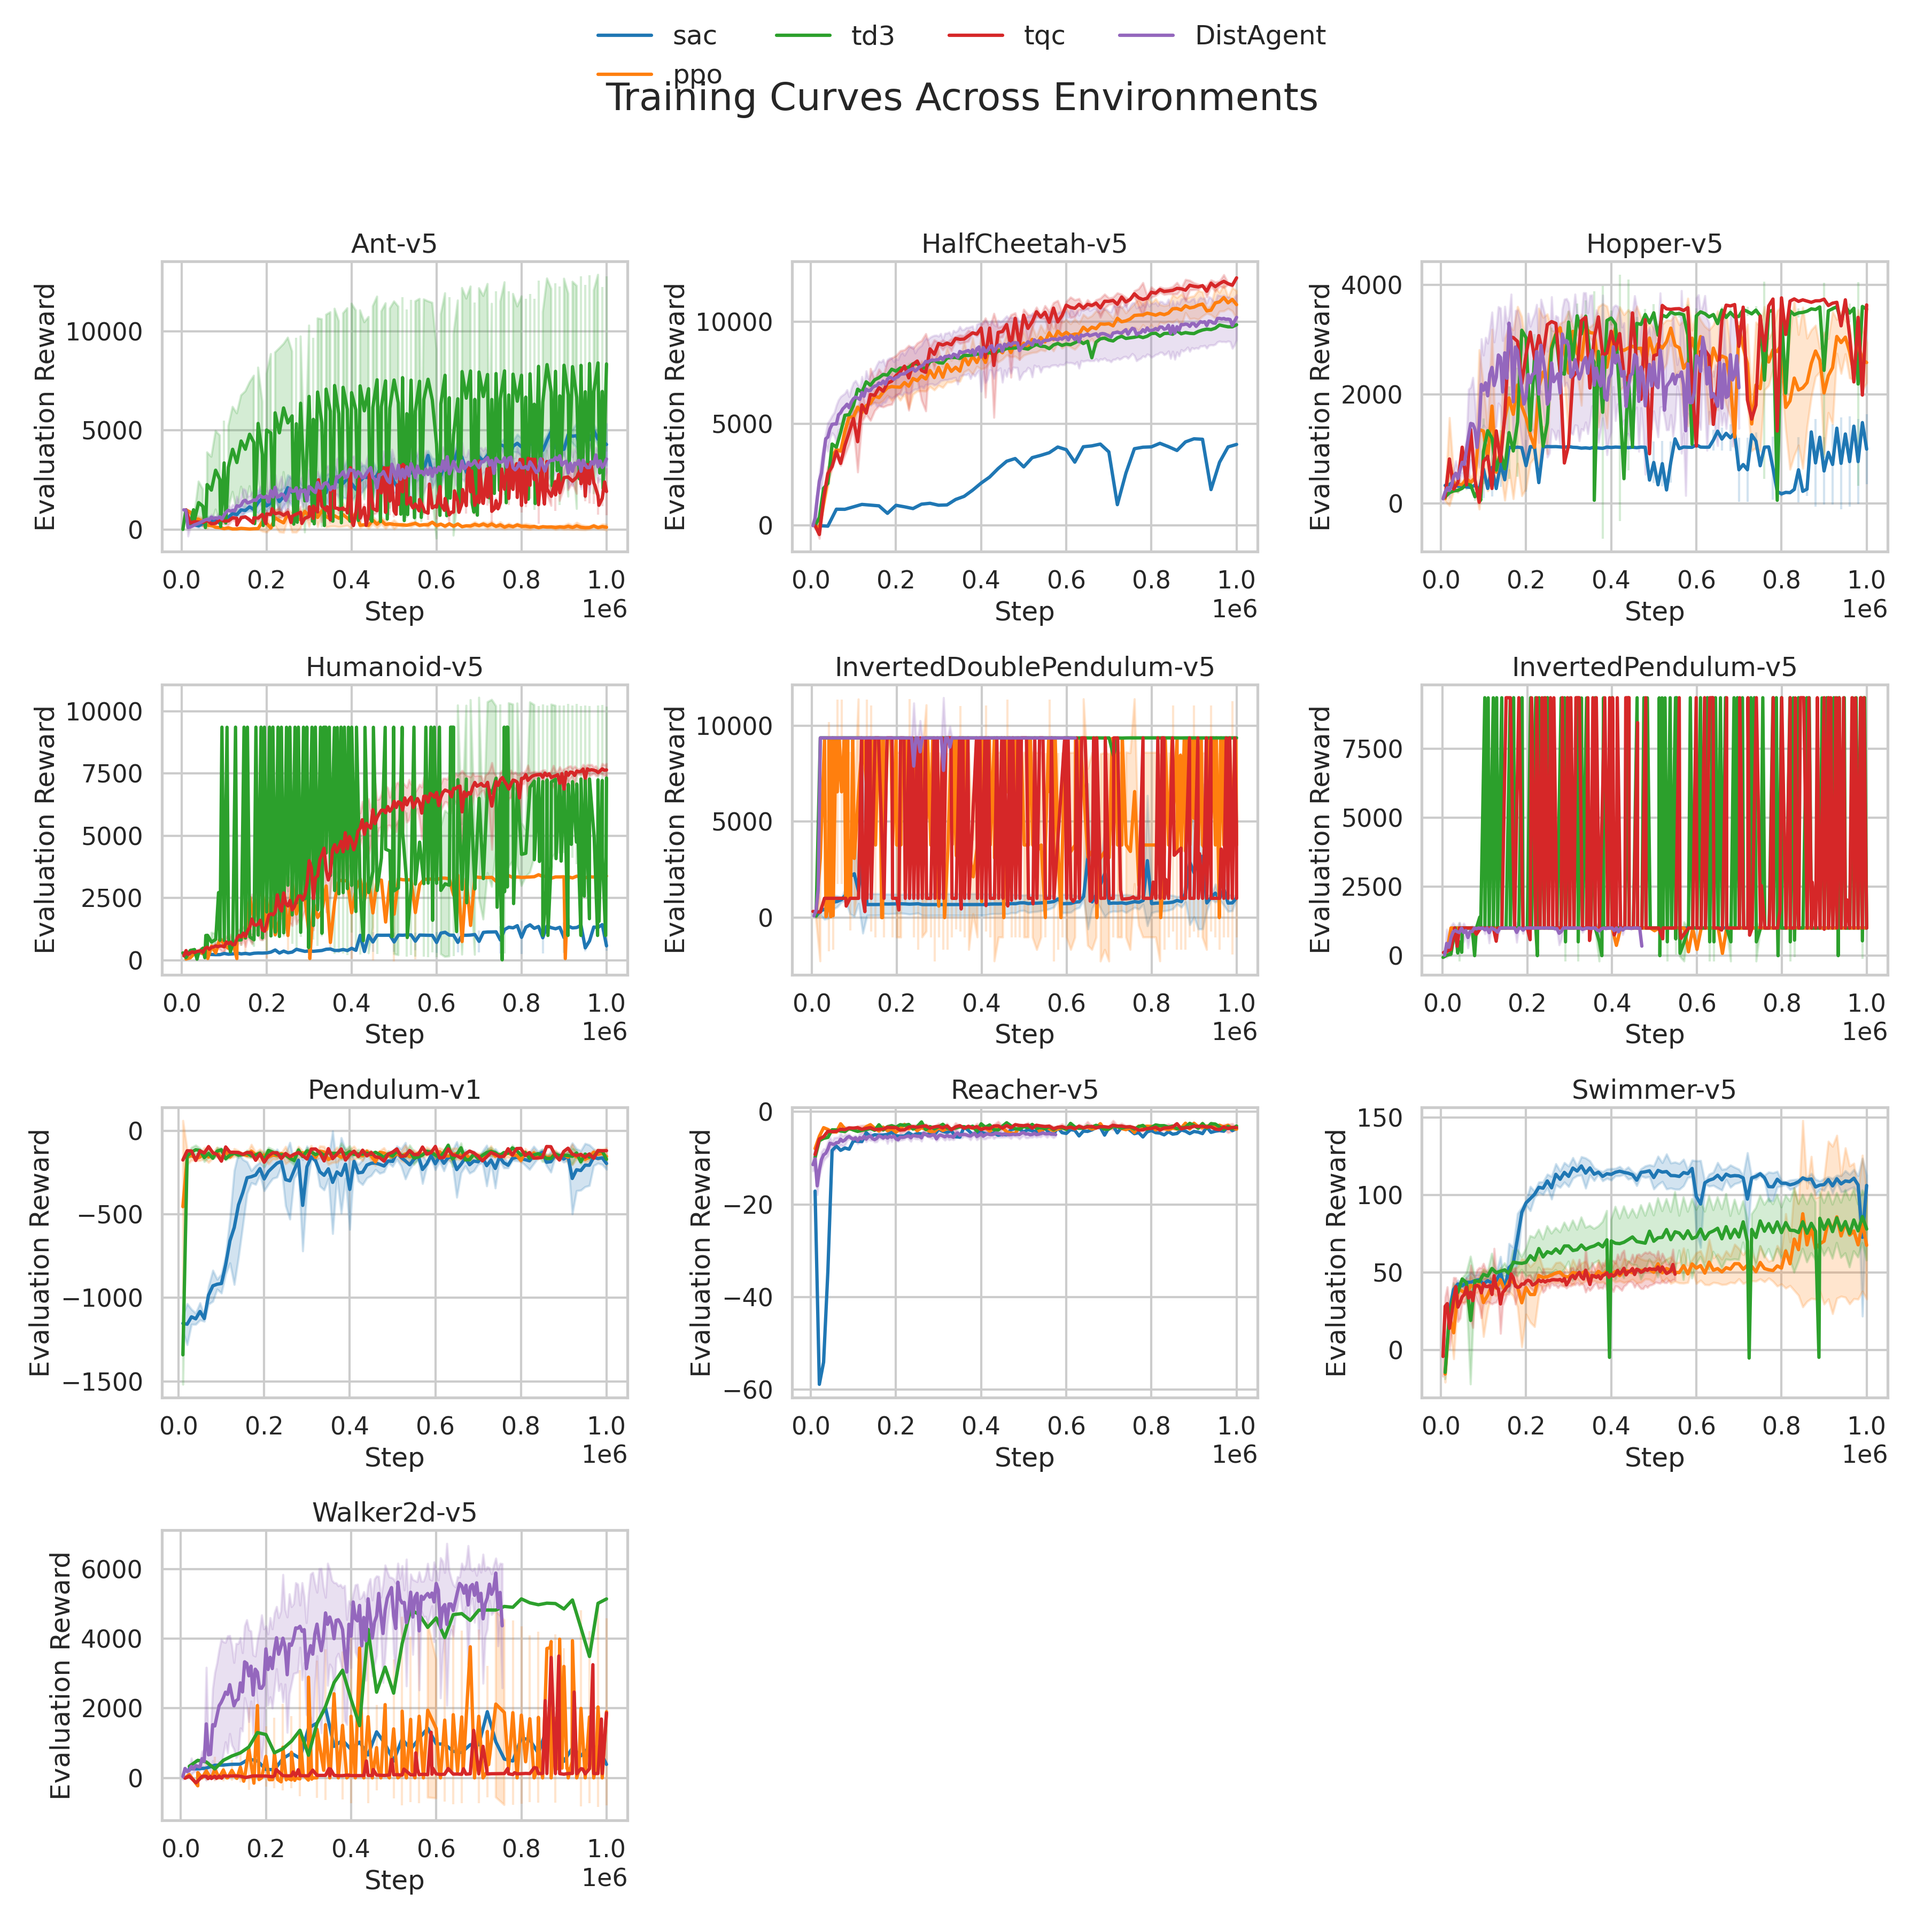
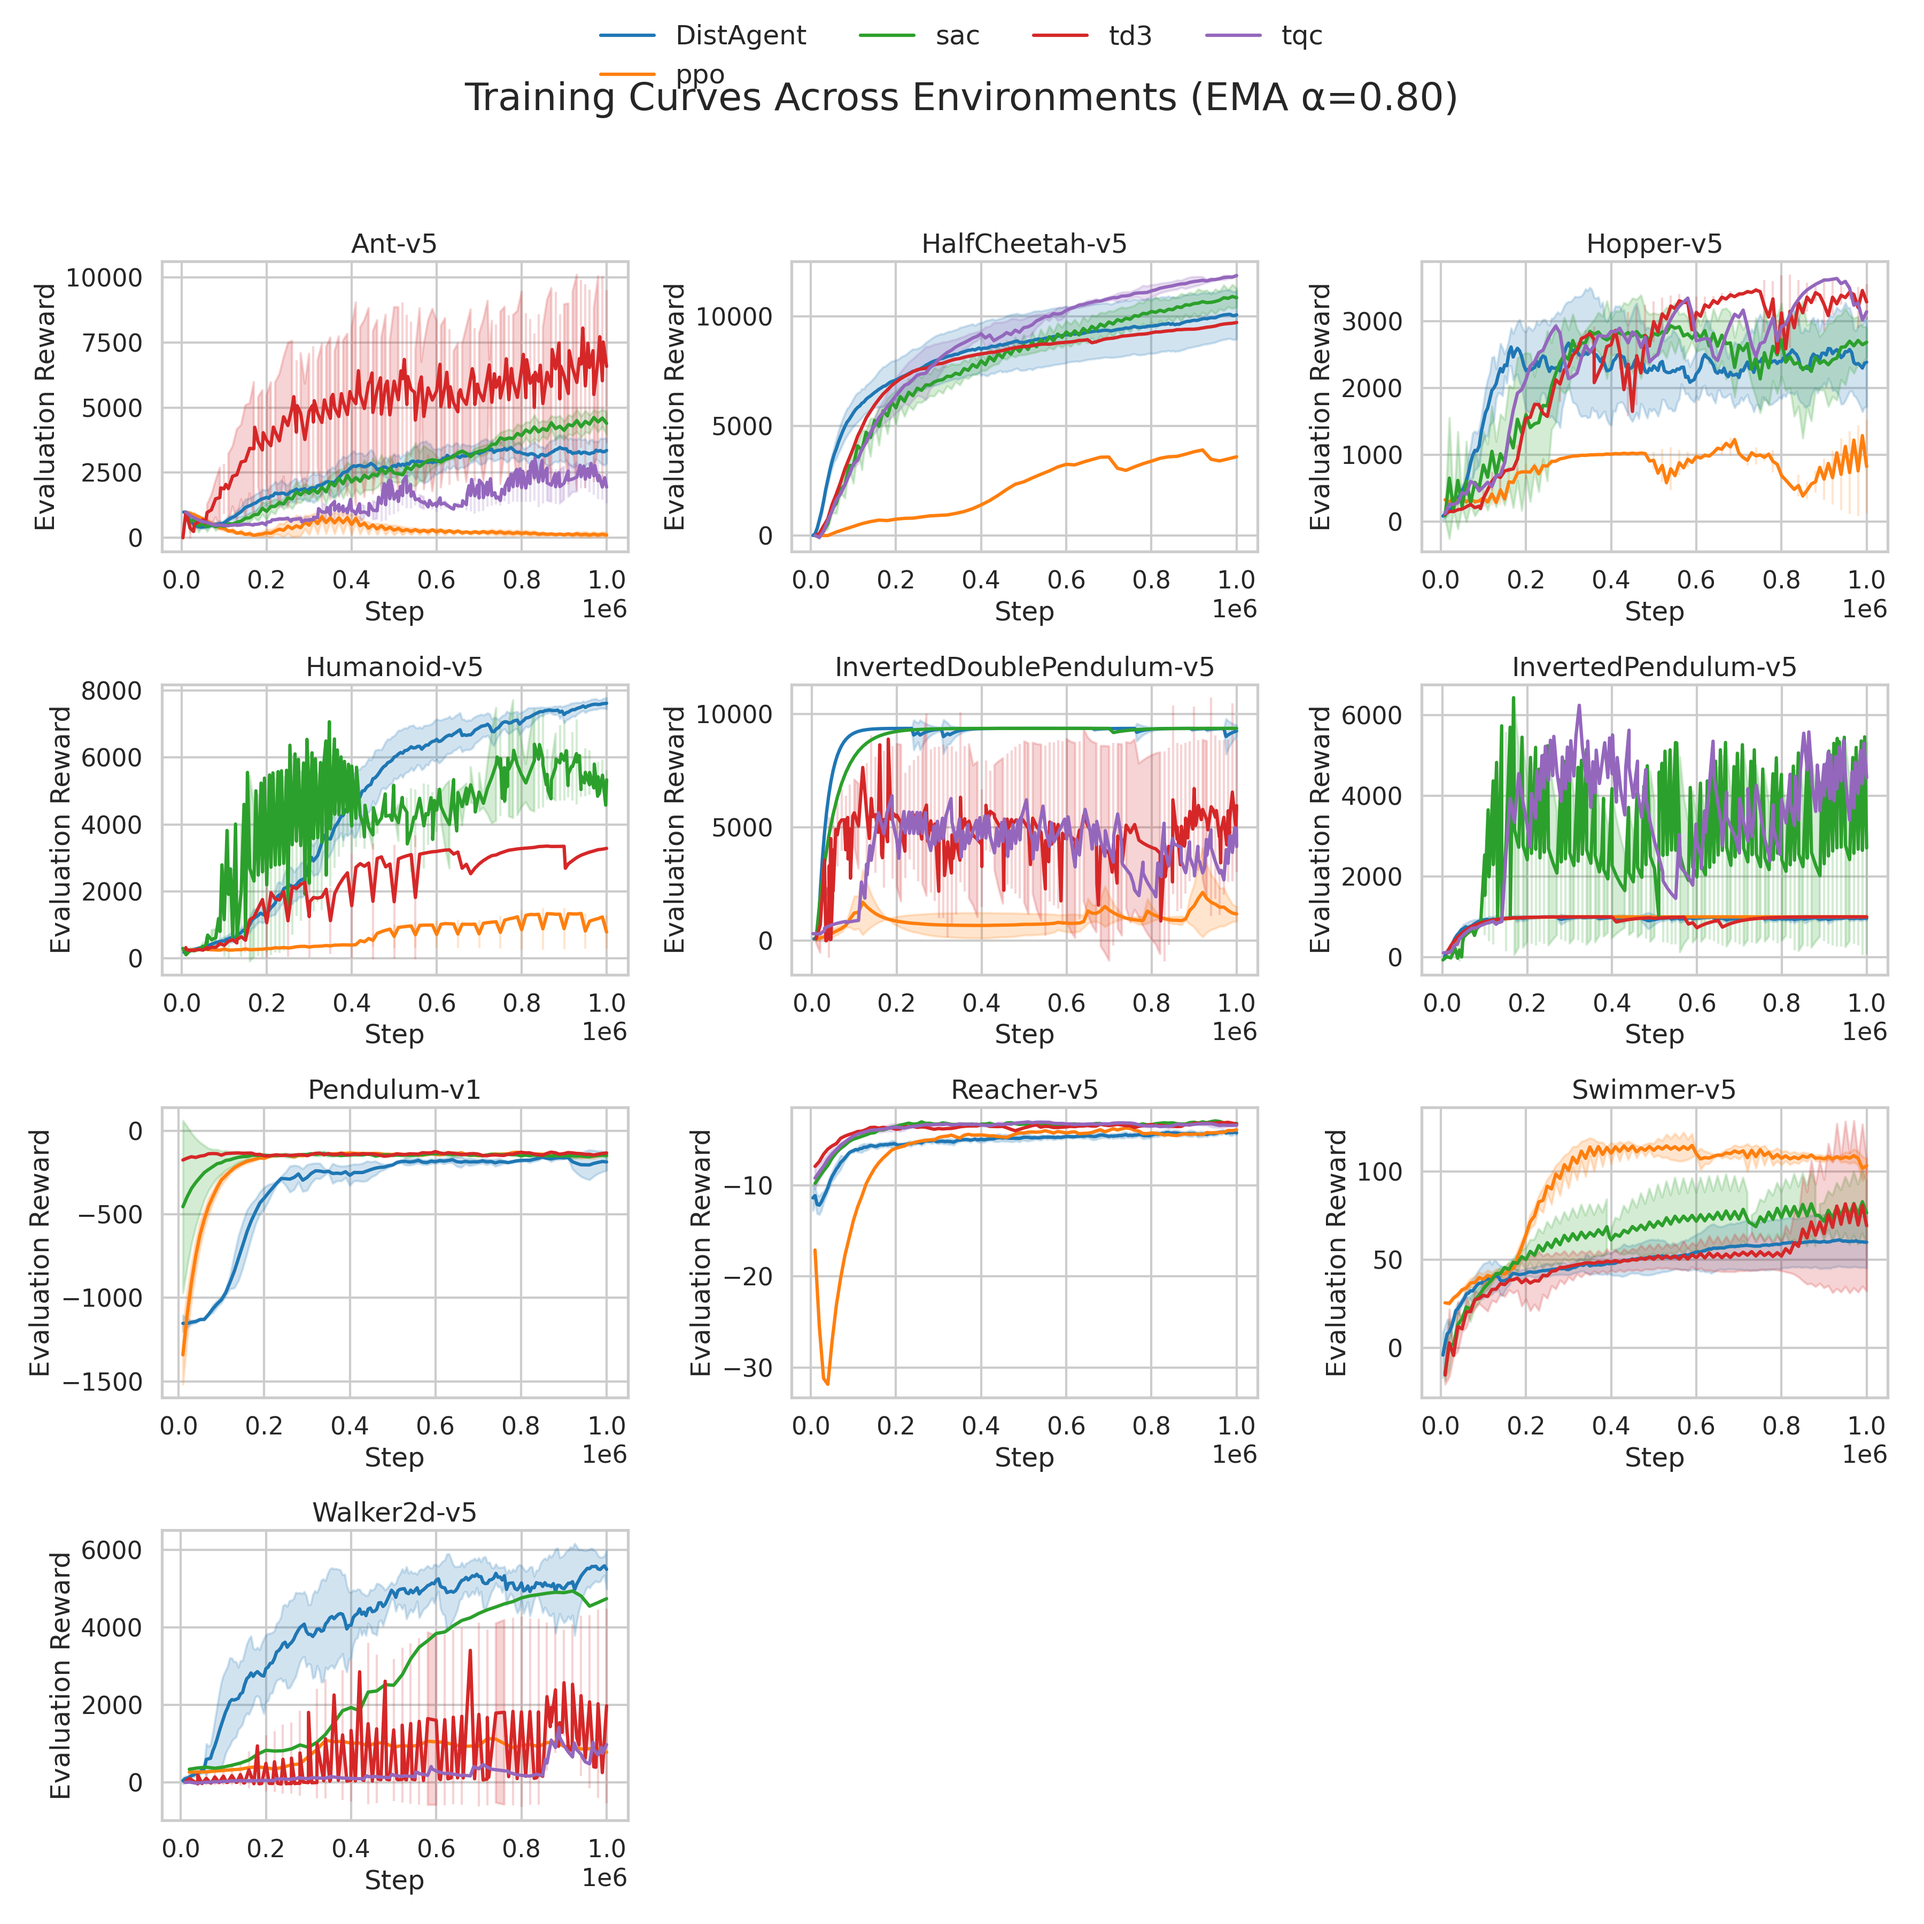
feat: update

diff --git a/results_analysis/visualize_training.py b/results_analysis/visualize_training.py
@@ -296,7 +296,7 @@ def parse_args() -> argparse.Namespace:
     parser.add_argument("--out", type=Path, default=Path("results_analysis/plots"),
                         help="Directory to save plot images")
     parser.add_argument("--show", default=False, action="store_true", help="Display plots interactively")
-    parser.add_argument("--ema-alpha", type=float, default=0.0,
+    parser.add_argument("--ema-alpha", type=float, default=0.8,
                         help="EMA smoothing factor (0-1). Higher=more smoothing. 0=disabled. Recommended: 0.1-0.5")
     parser.add_argument("--max-step", type=int, default=1_000_000,
                         help="Maximum training step to plot (set negative to include all)")
